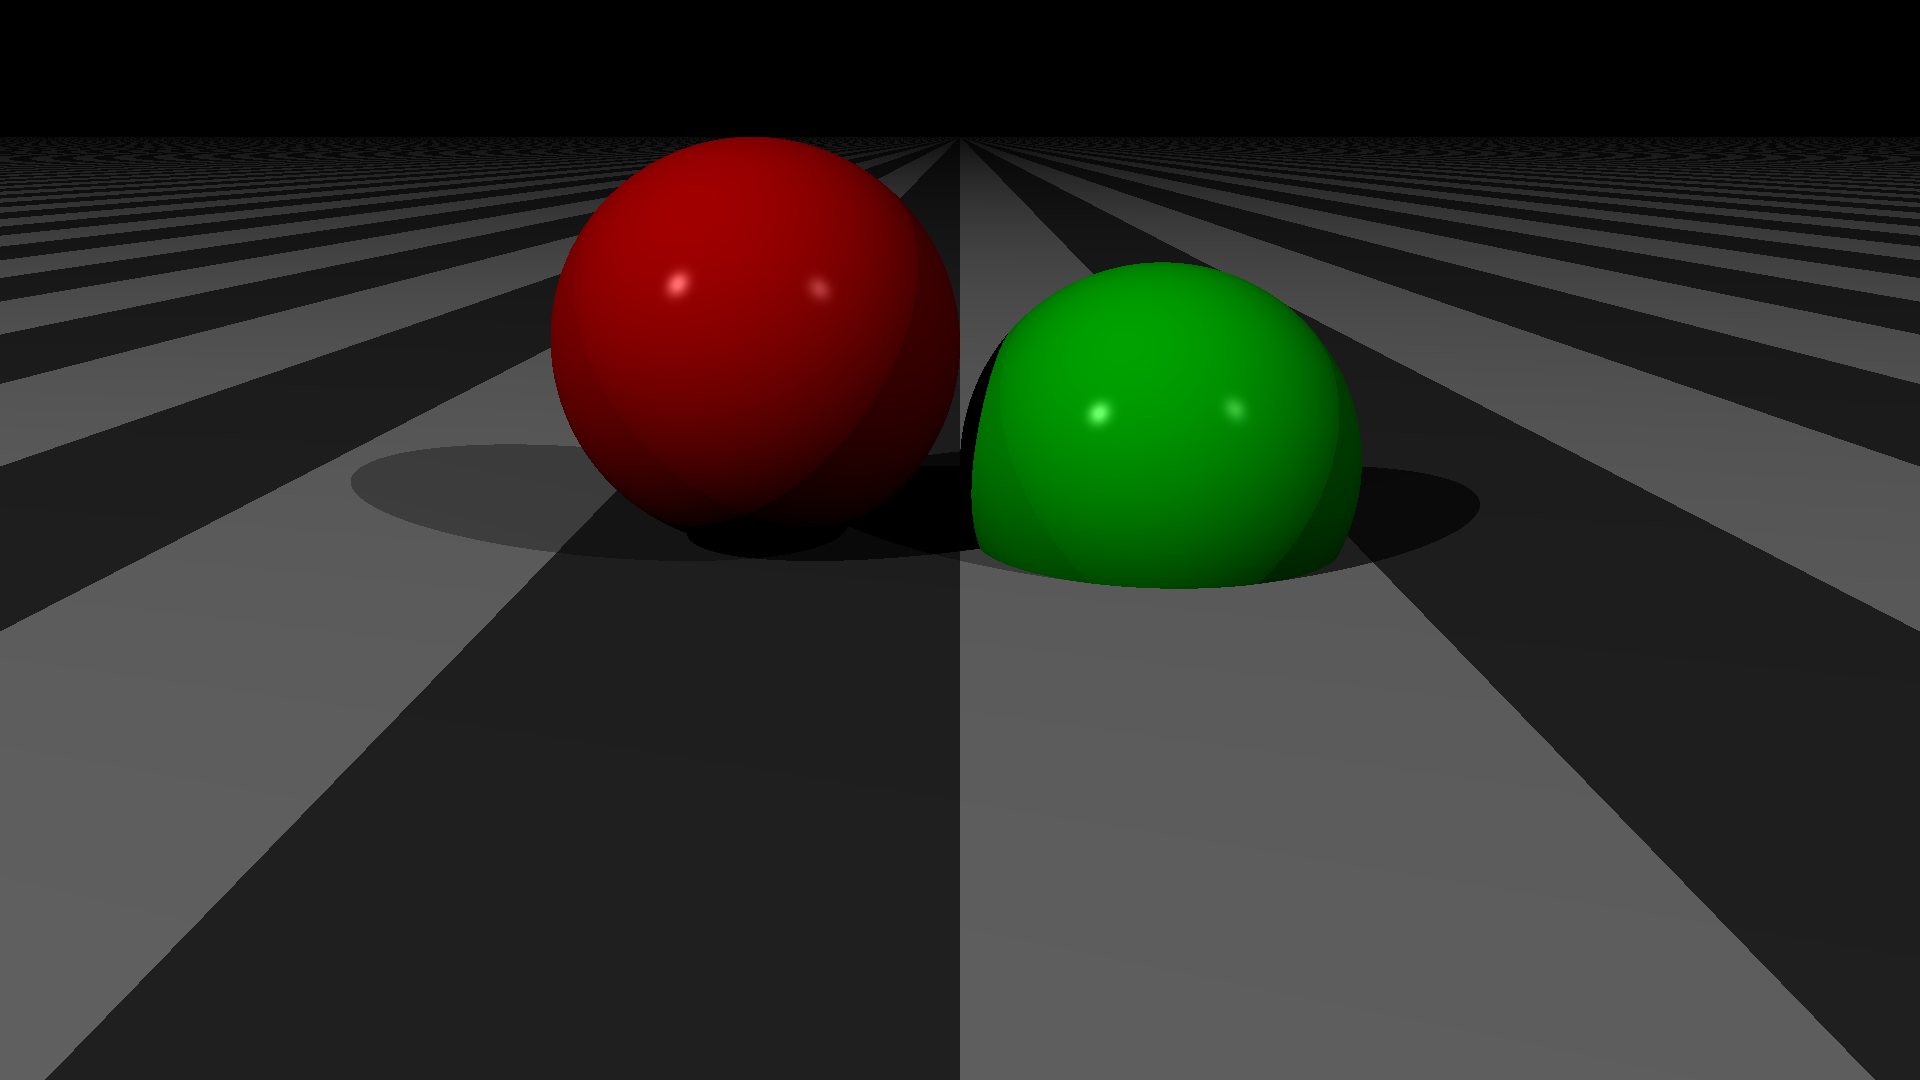
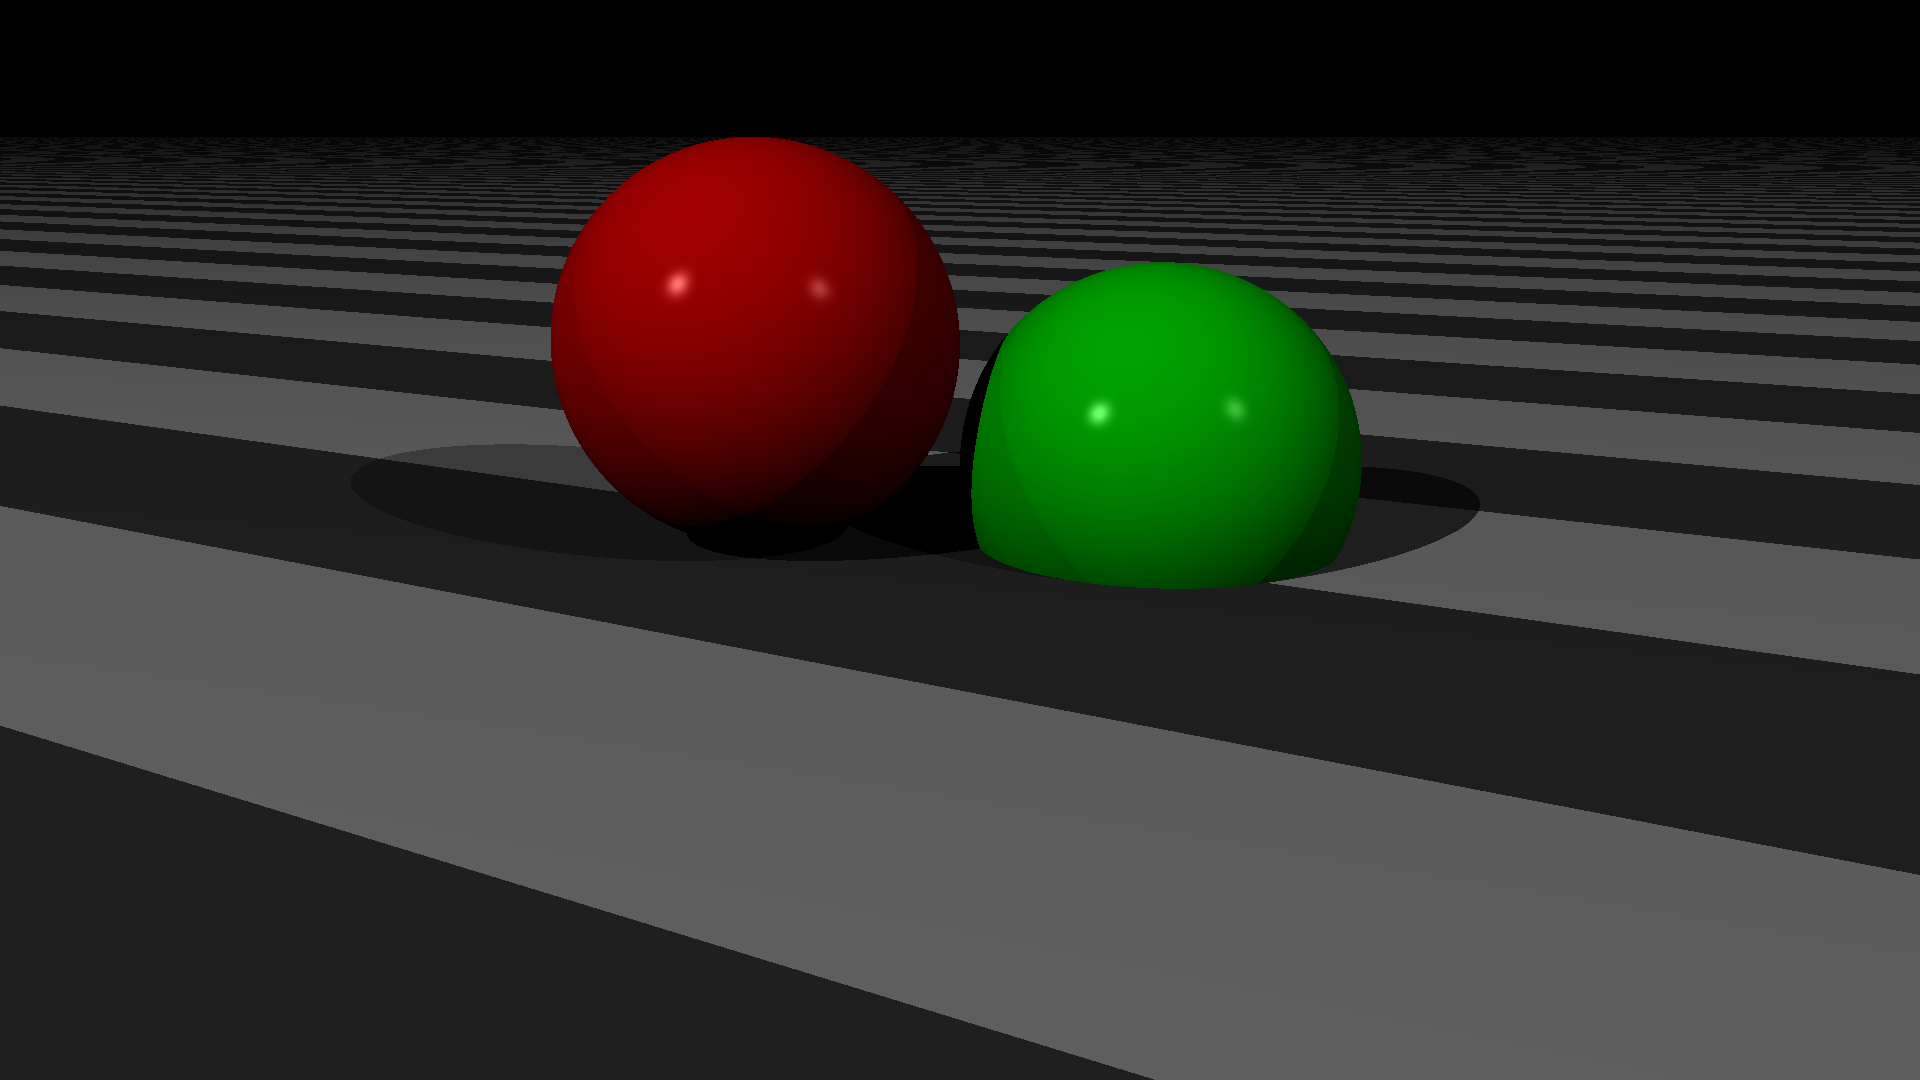
Transforming patterns

diff --git a/src/main.cpp b/src/main.cpp
@@ -16,17 +16,7 @@ enum PatternType {
     STRIPES
 };
 
-struct Pattern {
-    Color a;
-    Color b;
-
-    Color at(Point point) {
-        auto x = std::floor(point.x);
-        if (((int)x) % 2 == 0)
-            return a;
-        return b;
-    }
-};
+struct Pattern;
 
 struct Material {
     Color color;
@@ -114,6 +104,29 @@ struct Intersection {
 
 bool compareIntersections(Intersection i1, Intersection i2) {
     return i1.t < i2.t;
+}
+
+struct Pattern {
+    Color a;
+    Color b;
+    Matrix inv;
+
+    Color at(Point point) {
+        auto x = std::floor(point.x);
+        if (((int)x) % 2 == 0)
+            return a;
+        return b;
+    }
+
+    Color at(Shape *shape, Point point) {
+        auto objectPoint = shape->inv * point;
+        auto patternPoint = inv * objectPoint;
+        return at(patternPoint);
+    }
+};
+
+Pattern stripes(Color a, Color b, Matrix tr) {
+    return Pattern{a, b, tr.inverse()};
 }
 
 std::vector<Intersection> intersectionsBuffer;
@@ -223,7 +236,7 @@ Color lightning(Light light, double shadowValue, IntersectionContext intersectio
 
     auto materialColor = material.color;
     if (material.pattern) {
-        materialColor = material.pattern->at(intersectionContext.point);
+        materialColor = material.pattern->at(intersectionContext.h.shape, intersectionContext.point);
     }
 
     auto point = intersectionContext.point;
@@ -281,7 +294,7 @@ int main() {
     Material greenMaterial{green, 0.1, 0.9, 0.9, 200};
     Material grayMaterial{gray, 0.1, 0.9, 0.9, 200};
 
-    Pattern stripesPattern{lightGray, darkGray};
+    Pattern stripesPattern = stripes(lightGray, darkGray, rotationY(-pi / 3) * scale(0.1, 0.1, 0.1));
     Material stripesMaterial{black, 0.1, 0.9, 0.9, 200, &stripesPattern};
 
     Shape sphere1 = sphere(translation(-0.5, 0.5, 0) * scale(0.5, 0.5, 0.5), redMaterial);
